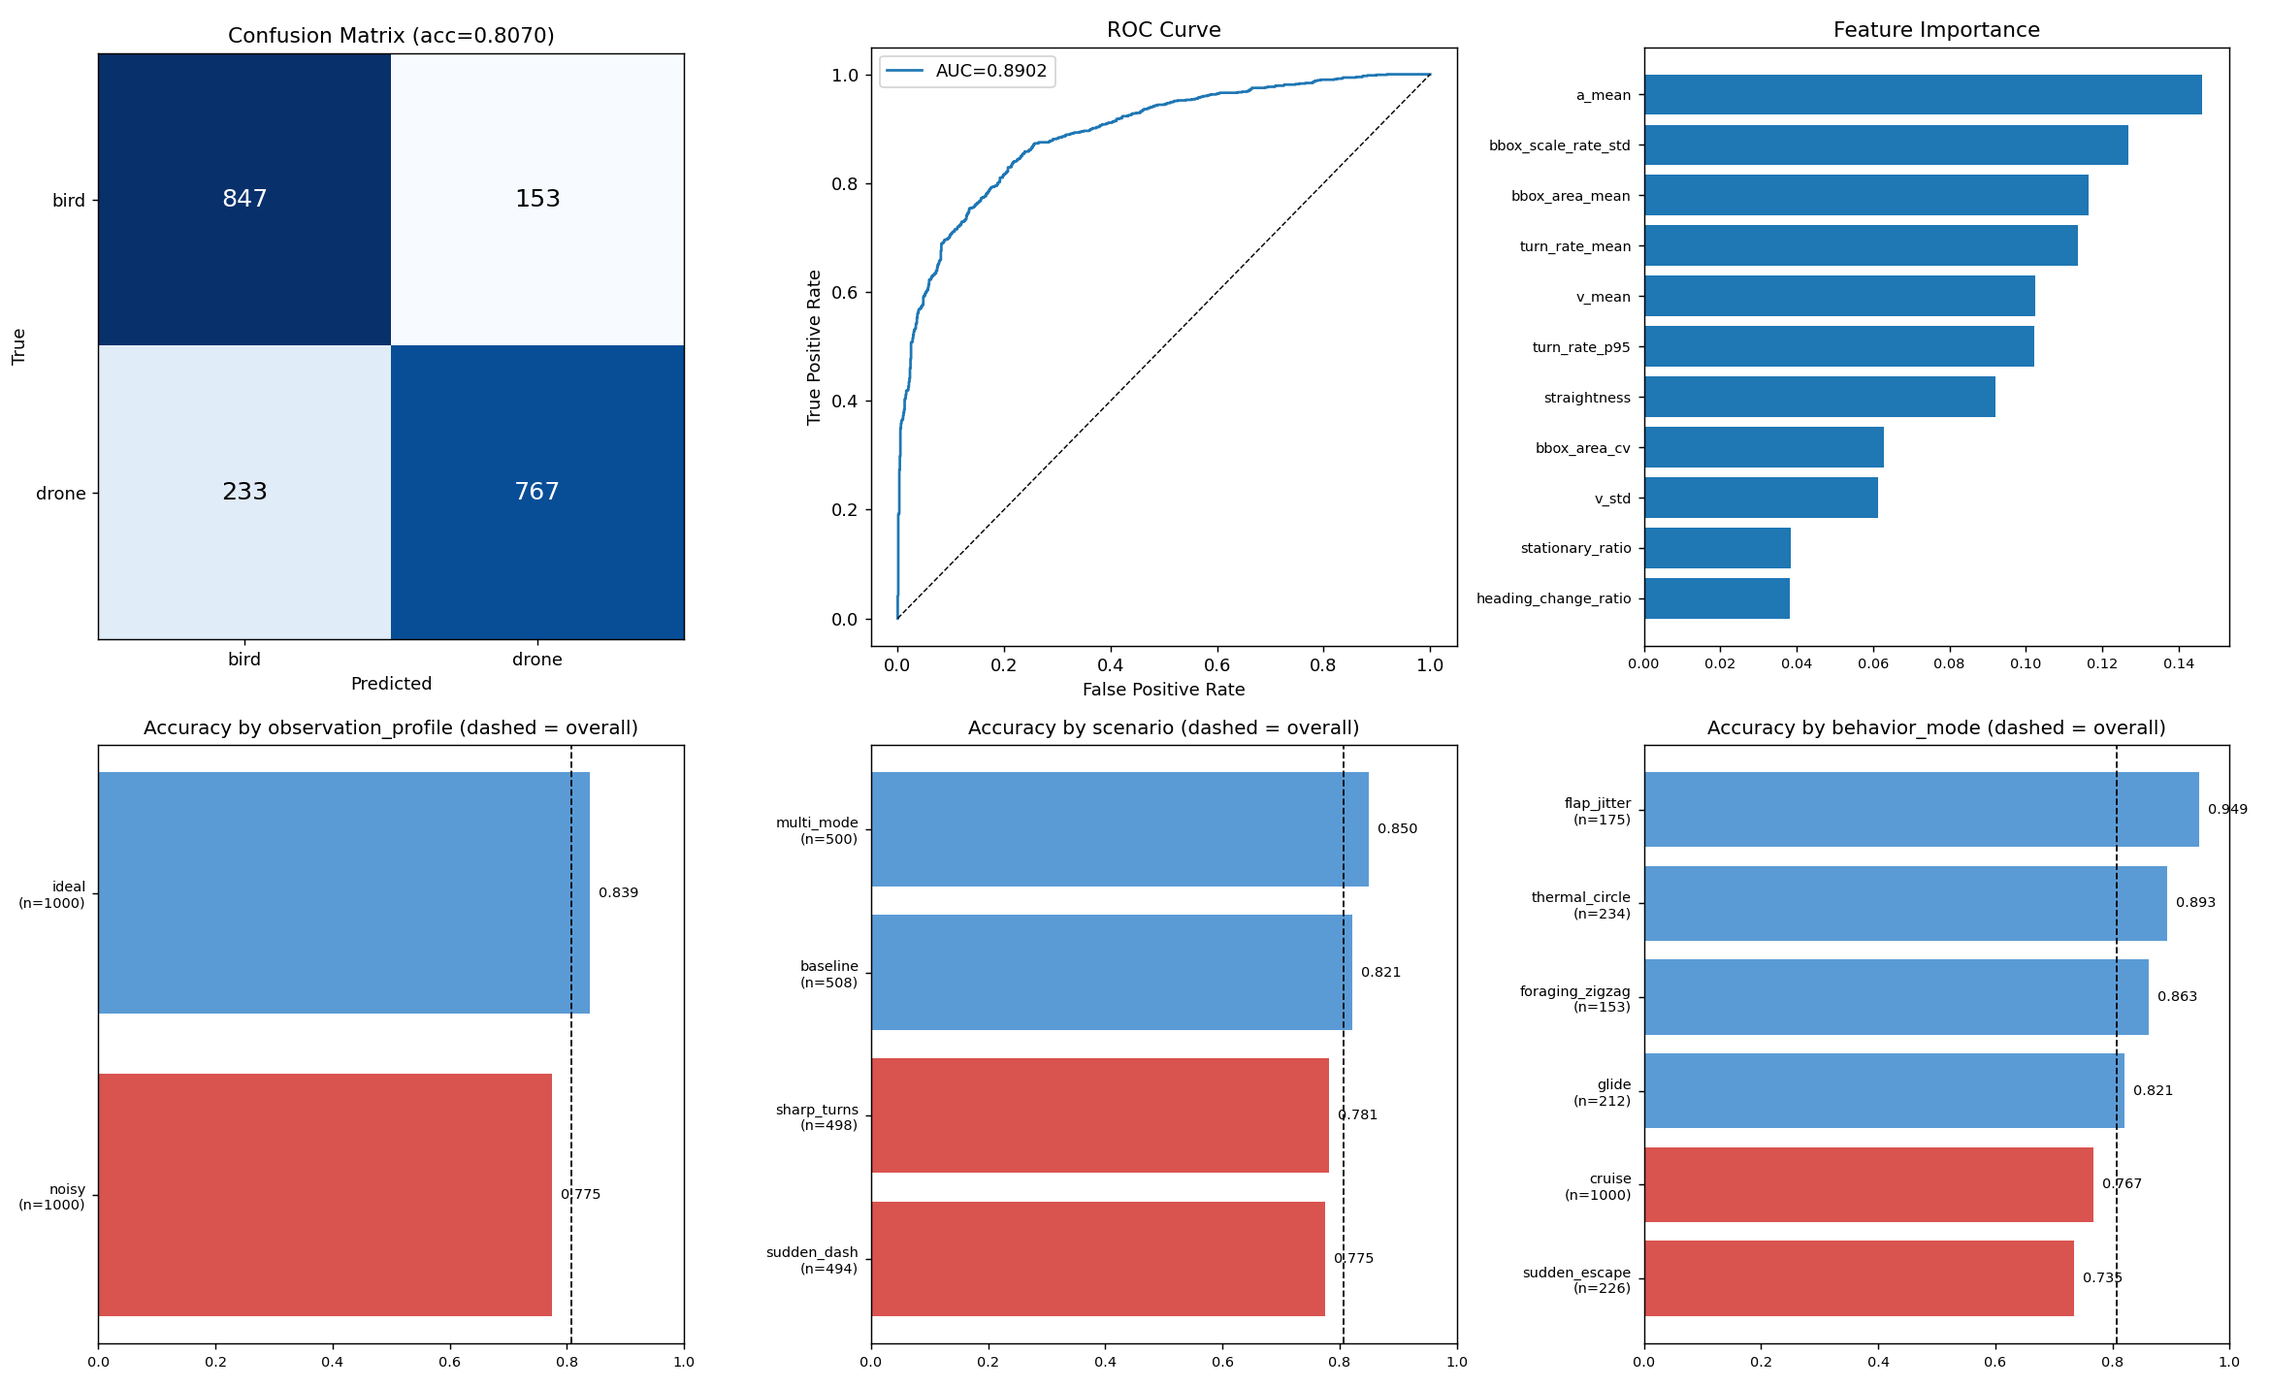
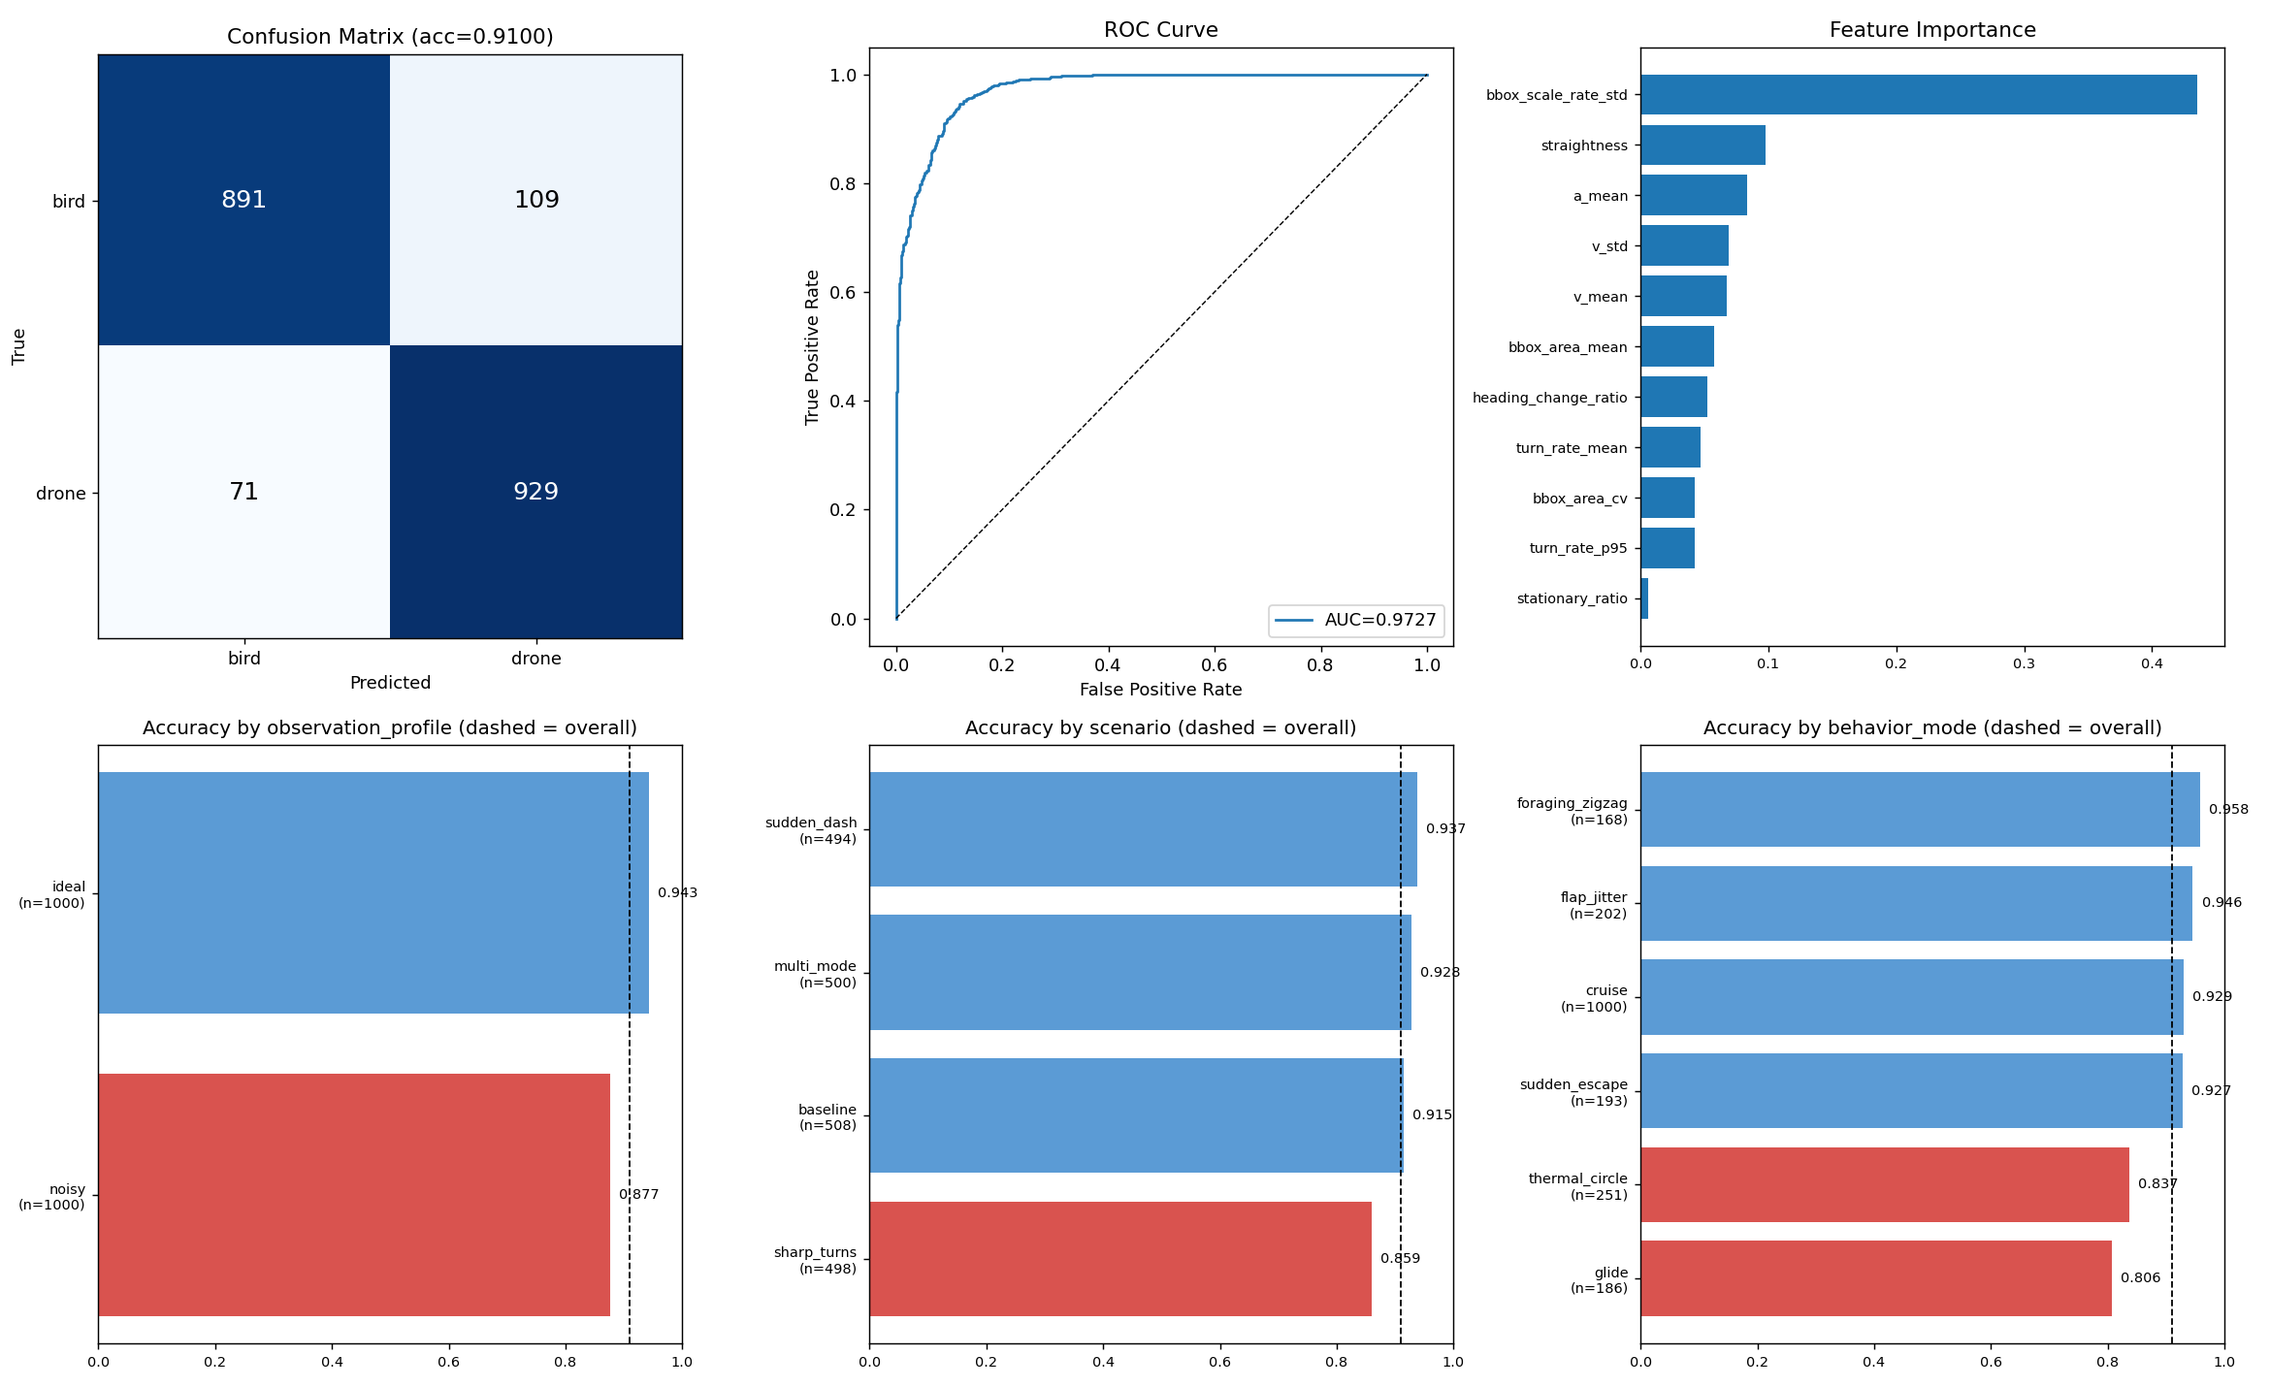
docs: RF 평가 확정본을 시뮬레이터 v4 데이터 기준으로 갱신
data/ 를 시뮬레이터 4.0.0 데이터셋으로 교체한 뒤(ac3fe87) 재평가한 결과를
docs/ 확정본으로 승격한다.

    accuracy   0.8070 -> 0.9100
    F1 macro   0.8067 -> 0.9100
    ROC-AUC    0.8902 -> 0.9727
    CV f1      0.8033 +-0.0121 -> 0.8985 +-0.0091

drone recall 이 0.7670 에서 0.9290 으로 올랐다. 미탐 비용이 큰 탐지 목적에서
가장 의미 있는 변화다. test 0.9100, validation 0.9000, CV 0.8985 세 추정치가
1.2%p 안에 모여 과적합 징후는 없다.

B파트가 validation 분할을 추가 제공해 데이터가 3분할(6000/2000/2000)이 됐다.
세 분할 모두 family_id / sample_id 교집합 0 이다.

## 성능이 오른 이유와 그 대가

시뮬레이터 v4 가 조류에 날갯짓 변조를 도입하면서 bbox_scale_rate_std 의 중요도가
0.1267 에서 0.4352 로 뛰었다. 이 피처 하나가 전체의 43.5% 를 차지한다.

향상의 대부분이 이 채널에서 나왔지만 동시에 최대 취약점이다. 검출기 지터를
주입해 측정한 민감도를 문서에 표로 남겼다.

    지터 0.05 -> accuracy 0.750, drone recall 0.557
    지터 0.10 -> accuracy 0.684, drone recall 0.408

모델이 "bbox 가 흔들리면 새"로 학습해, 잡음이 끼면 드론을 새로 오인한다.
대드론 시스템에서 가장 치명적인 방향의 오류다. SIMULATION_V4.md 도 이 bbox
관측 모델의 현실성이 검증되지 않았다고 명시하고 있다.

이 측정이 B파트가 bbox 비의존 특징 9종(#35)을 도입한 근거가 됐다. 따라서 이
문서의 지표는 피처 v3(11종) 기준이며, 피처 v4 재학습 후 갱신해야 한다.

## 병목이 바뀌었다

cruise(0.7670 -> 0.9290)와 sudden_escape(0.7345 -> 0.9275)가 해소된 대신
glide(0.8065), thermal_circle(0.8367), fixed_wing_drone(0.5280)이 새 병목이 됐다.
전부 날갯짓이 없는 활공 계열이라 두 클래스가 물리적으로 같은 방식으로 난다.
서브타입별 정확도와 함께 문서에 정리했다.

## 그 밖에

- 0.9100 은 시뮬레이션 홀드아웃 상한이며 실전 성능이 아니라는 점을 명시했다.
  실측 검증 도구(verify_real_track.py, comparison.py)는 준비돼 있으나 실영상이 없다.
- 하이퍼파라미터 탐색 표의 CV 수치는 v3 데이터에서 측정한 값이라 재탐색하지
  않았음을 단서로 달았다. 선정된 설정 자체는 v4 에서도 유지했다.

diff --git a/docs/rf_evaluation.md b/docs/rf_evaluation.md
@@ -46,7 +46,7 @@ python -m ai_server.services.evaluate --publish
 ![RF 분류기 평가 결과](images/rf_evaluation.png)
 
 윗줄은 전반 성능(혼동행렬 / ROC / 피처 중요도), 아랫줄은 세그먼트별 정확도 분해다.
-아랫줄에서 점선은 전체 정확도(0.8070)이고, **붉은 막대는 전체 평균을 밑도는 취약 구간**이다.
+아랫줄에서 점선은 전체 정확도(0.9100)이고, **붉은 막대는 전체 평균을 밑도는 취약 구간**이다.
 
 ## 데이터셋
 
@@ -55,17 +55,20 @@ python -m ai_server.services.evaluate --publish
 
 | 항목 | 값 |
 |---|---|
-| `simulator_version` | `3.0.0` |
+| `simulator_version` | `4.0.0` |
 | `feature_version` | `3.0.0` |
 | `feature_config_id` | `3b9a6c638c3f3519` |
 
-| 항목 | train | test |
-|---|---|---|
-| 샘플 수 | 8,000 | 2,000 |
-| 라벨 | bird 4,000 / drone 4,000 | bird 1,000 / drone 1,000 |
-| `family_id` 수 | 926 | 232 |
+| 항목 | train | validation | test |
+|---|---|---|---|
+| 샘플 수 | 6,000 | 2,000 | 2,000 |
+| 라벨 | bird 3,000 / drone 3,000 | bird 1,000 / drone 1,000 | bird 1,000 / drone 1,000 |
+| `family_id` 수 | 652 | — | 217 |
 
-**누수 검증** — `family_id` 교집합 0, `sample_id` 교집합 0, 동일 피처 행 0.
+B파트가 validation 분할을 추가로 제공해 3분할이 됐다. 아래 확정 지표는 test 기준이며,
+validation은 동일 모델로 0.9000이 나와 test(0.9100)와 1%p 안에서 일치한다.
+
+**누수 검증** — 세 분할 모두 `family_id` 교집합 0, `sample_id` 교집합 0, 동일 피처 행 0.
 패밀리 단위로 분리되어 있어 같은 궤적 계열이 train/test 양쪽에 걸치지 않는다.
 이 검사는 `evaluate.py`가 실행할 때마다 수행해 `metrics.json`에 기록한다.
 
@@ -81,6 +84,10 @@ python -m ai_server.services.evaluate --publish
 
 테스트셋 성능으로 설정을 고르면 테스트셋에 과적합되므로, **train 내부
 `GroupKFold(family_id)` 교차검증**으로 선정한 뒤 테스트셋은 최종 확인에만 사용했다.
+
+> **주의:** 아래 탐색 표의 CV 수치는 시뮬레이터 v3 데이터셋에서 측정한 값이다.
+> 데이터가 시뮬레이터 v4로 교체된 뒤 재탐색하지 않았으므로, 절대값이 아니라
+> 후보 간 상대 비교 근거로만 읽어야 한다. 선정된 설정 자체는 v4에서도 유지했다.
 
 | 설정 | CV f1_macro | 모델 크기 |
 |---|---|---|
@@ -110,52 +117,54 @@ python -m ai_server.services.evaluate --publish
 
 | 지표 | 값 |
 |---|---|
-| accuracy | **0.8070** |
-| F1 (macro) | **0.8067** |
-| ROC-AUC | 0.8902 |
-| PR-AUC | 0.8995 |
+| accuracy | **0.9100** |
+| F1 (macro) | **0.9100** |
+| ROC-AUC | 0.9727 |
+| PR-AUC | 0.9721 |
 
 | 클래스 | precision | recall | f1-score | support |
 |---|---|---|---|---|
-| bird | 0.7843 | 0.8470 | 0.8144 | 1,000 |
-| drone | 0.8337 | 0.7670 | 0.7990 | 1,000 |
+| bird | 0.9262 | 0.8910 | 0.9083 | 1,000 |
+| drone | 0.8950 | 0.9290 | 0.9117 | 1,000 |
 
-drone의 precision(0.8337)이 recall(0.7670)보다 높다. 드론이라 판단하면 대체로 맞지만
-실제 드론의 23%를 놓친다는 뜻으로, 탐지 목적상 recall 개선이 우선 과제다.
+drone recall이 0.7670에서 **0.9290**으로 올랐다. 시뮬레이터 v4가 조류에 날갯짓 변조를
+도입하면서 두 클래스가 분리된 결과다. 미탐 비용이 큰 탐지 목적에서 가장 의미 있는 변화다.
 
 ### Confusion Matrix
 
 |  | pred bird | pred drone |
 |---|---|---|
-| **true bird** | 847 | 153 |
-| **true drone** | 233 | 767 |
+| **true bird** | 891 | 109 |
+| **true drone** | 71 | 929 |
 
 ### 교차검증 (train, GroupKFold 5-fold)
 
-f1_macro **0.8033 ± 0.0121** — folds: 0.8132 / 0.7998 / 0.8149 / 0.7816 / 0.8071
+f1_macro **0.8985 ± 0.0091** — folds: 0.8958 / 0.9124 / 0.9042 / 0.8941 / 0.8858
 
-홀드아웃(0.8067)과 CV(0.8033)가 1 표준편차 내에서 일치해 과적합 징후는 없으며,
-train/test 분할이 편향되지 않았음을 뒷받침한다.
+test(0.9100), validation(0.9000), CV(0.8985) 세 추정치가 1.2%p 안에 모여 과적합 징후가 없다.
 
 ### Feature Importance
 
-| 피처 | 중요도 |
-|---|---|
-| `a_mean` | 0.1460 |
-| `bbox_scale_rate_std` | 0.1267 |
-| `bbox_area_mean` | 0.1164 |
-| `turn_rate_mean` | 0.1136 |
-| `v_mean` | 0.1024 |
-| `turn_rate_p95` | 0.1020 |
-| `straightness` | 0.0921 |
-| `bbox_area_cv` | 0.0628 |
-| `v_std` | 0.0613 |
-| `stationary_ratio` | 0.0385 |
-| `heading_change_ratio` | 0.0381 |
+| 피처 | 중요도 | 이전(시뮬레이터 v3) |
+|---|---|---|
+| `bbox_scale_rate_std` | **0.4352** | 0.1267 |
+| `straightness` | 0.0974 | 0.0921 |
+| `a_mean` | 0.0834 | 0.1460 |
+| `v_std` | 0.0692 | 0.0613 |
+| `v_mean` | 0.0676 | 0.1024 |
+| `bbox_area_mean` | 0.0576 | 0.1164 |
+| `heading_change_ratio` | 0.0519 | 0.0381 |
+| `turn_rate_mean` | 0.0467 | 0.1136 |
+| `bbox_area_cv` | 0.0425 | 0.0628 |
+| `turn_rate_p95` | 0.0423 | 0.1020 |
+| `stationary_ratio` | 0.0062 | 0.0385 |
 
-11개 피처가 0.038~0.146 범위에 고르게 분포해 특정 피처에 쏠리지 않는다.
-신규 도입된 bbox 계열(`bbox_scale_rate_std`, `bbox_area_mean`)이 2·3위를 차지해
-피처 확장의 기여가 확인된다.
+이전에는 0.038~0.146 범위에 고르게 분포했으나, **`bbox_scale_rate_std` 하나가 43.5%로
+쏠렸다.** 시뮬레이터 v4가 조류에 날갯짓 변조(pigeon 8.3Hz, falcon 5Hz, seagull 4Hz,
+고정익 드론 0Hz)를 도입하면서 이 피처가 날갯짓 탐지기 역할을 하게 됐다.
+
+성능 향상의 대부분이 이 채널에서 나왔지만, **동시에 가장 큰 취약점이기도 하다.**
+아래 「알려진 취약점」을 참고한다.
 
 ## 세그먼트별 정확도
 
@@ -163,51 +172,108 @@ train/test 분할이 편향되지 않았음을 뒷받침한다.
 
 | 구분 | n | accuracy |
 |---|---|---|
-| ideal | 1,000 | 0.8390 |
-| noisy | 1,000 | 0.7750 |
+| ideal | 1,000 | 0.9430 |
+| noisy | 1,000 | 0.8770 |
 
-노이즈 조건에서 **6.4%p 하락**한다. Sim2Real 관점에서 실측 환경 성능의 하한으로 볼 수 있다.
+노이즈 조건에서 **6.6%p 하락**한다. Sim2Real 관점에서 실측 환경 성능의 하한으로 볼 수 있다.
 
 ### scenario — 취약 시나리오
 
 | 구분 | n | accuracy |
 |---|---|---|
-| multi_mode | 500 | 0.8500 |
-| baseline | 508 | 0.8209 |
-| sharp_turns | 498 | 0.7811 |
-| sudden_dash | 494 | 0.7753 |
+| sudden_dash | 494 | 0.9372 |
+| multi_mode | 500 | 0.9280 |
+| baseline | 508 | 0.9154 |
+| sharp_turns | 498 | 0.8594 |
 
-급격한 방향 전환(`sharp_turns`)과 급가속(`sudden_dash`)이 상대적으로 취약하다.
+급격한 방향 전환(`sharp_turns`)만 상대적으로 취약하게 남았다. `sudden_dash`는 이전
+0.7753에서 0.9372로 올라 더 이상 병목이 아니다.
 
 ### behavior_mode
 
 | 구분 | n | accuracy |
 |---|---|---|
-| flap_jitter | 175 | 0.9486 |
-| thermal_circle | 234 | 0.8932 |
-| foraging_zigzag | 153 | 0.8627 |
-| glide | 212 | 0.8208 |
-| cruise | 1,000 | 0.7670 |
-| sudden_escape | 226 | 0.7345 |
+| foraging_zigzag | 168 | 0.9583 |
+| flap_jitter | 202 | 0.9455 |
+| cruise | 1,000 | 0.9290 |
+| sudden_escape | 193 | 0.9275 |
+| thermal_circle | 251 | 0.8367 |
+| glide | 186 | 0.8065 |
 
-새 고유의 움직임이 뚜렷한 `flap_jitter`(날갯짓)와 `thermal_circle`(상승기류 선회)은
-0.89 이상으로 잘 구분된다. 반면 `sudden_escape`(급회피)는 0.7345로 가장 낮은데,
-새의 급기동이 드론의 급기동과 유사해 분리가 어려운 것으로 보인다.
-`cruise`는 전체 테스트셋의 절반을 차지하면서 0.7670에 그쳐, **등속 직진 구간의
-bird/drone 구분 난이도가 전체 성능의 주된 제약**이다.
+병목이 완전히 뒤바뀌었다. 이전 최대 약점이던 `cruise`(0.7670 → 0.9290)와
+`sudden_escape`(0.7345 → 0.9275)가 해소된 반면, **`glide`(0.8065)와
+`thermal_circle`(0.8367)이 새 병목**이 됐다.
+
+두 모드는 `SIMULATION_V4.md` 기준 **추진력 0인 활공**이라 날갯짓이 없다. 고정익 드론도
+날갯짓이 없어, 두 클래스가 물리적으로 같은 방식으로 난다. 실제로 `bbox_scale_rate_std`
+분포를 보면 활공 조류(평균 0.16)가 드론(0.11)과 거의 겹치고, 날갯짓하는 조류(1.09)와는
+크게 다르다.
+
+드론 서브타입별로 보면 같은 구조가 드러난다.
+
+| 서브타입 | accuracy |
+|---|---|
+| racing_quad | 0.9600 |
+| hover_quad | 0.8480 |
+| consumer_quad | 0.7200 |
+| **fixed_wing_drone** | **0.5280** |
+
+`fixed_wing_drone`은 사실상 동전 던지기 수준이다. **활공 조류 ↔ 고정익 드론**이
+남은 오류의 집중 지점이다.
 
 ### training_length_group
 
 | 구분 | n | accuracy |
 |---|---|---|
-| short | 193 | 0.8187 |
-| standard | 1,807 | 0.8058 |
+| short | 168 | 0.9226 |
+| standard | 1,832 | 0.9088 |
 
 트랙 길이에 따른 유의미한 성능 차이는 관찰되지 않는다.
 
+## 알려진 취약점 — 지표 해석 시 반드시 함께 읽을 것
+
+### 단일 피처 의존과 관측 잡음 취약성
+
+`bbox_scale_rate_std`가 중요도의 43.5%를 차지한다. 이 값은 bbox 면적 변화율의 표준편차,
+즉 날갯짓이 bbox를 흔드는 정도다.
+
+검출기·추적기가 만드는 bbox 지터를 이 피처에 주입해 민감도를 측정했다.
+
+| 추가 지터 | accuracy | drone recall | bird recall |
+|---|---|---|---|
+| 0.00 (현재) | 0.910 | 0.929 | 0.891 |
+| 0.05 | 0.750 | **0.557** | 0.944 |
+| 0.10 | 0.684 | **0.408** | 0.960 |
+| 0.20 | 0.629 | 0.282 | 0.976 |
+
+**작은 지터에도 무너지고, 무너지는 방향이 나쁘다.** 모델이 "bbox가 흔들리면 새"로
+학습했기 때문에 지터가 끼면 드론을 새로 오인한다. 대드론 시스템에서 가장 치명적인
+방향의 오류다. bird recall이 오히려 올라가는 것이 그 증거다.
+
+`research/SIMULATION_V4.md`도 이 채널의 현실성이 검증되지 않았다고 명시한다.
+
+> 현재 bbox는 여전히 투영 실루엣 근사와 A-like ROI 관측 모델이다. 날개 자세·가림·motion
+> blur를 렌더링하고 A 추적기에 실제 통과시킨 결과가 아니다. 따라서 bbox 기반 특징의
+> 현실성 문제는 이 개선으로 해결되지 않는다.
+
+이 측정이 B파트가 bbox 비의존 특징 9종(#35)을 도입한 근거가 됐다. **이 문서의 지표는
+피처 v3(11종) 기준이며, 피처 v4 재학습 후 갱신해야 한다.**
+
+### 이 수치는 실전 성능이 아니다
+
+0.9100은 **시뮬레이션 홀드아웃 상한**이다. 실측 영상 검증은 아직 수행하지 않았다.
+문헌상 합성 데이터로 학습한 모델이 조류가 섞인 실데이터에서 큰 폭으로 떨어진 사례가 있다
+(순수 합성 학습 Faster-RCNN: MAV-Vid AP 0.970 → Drone-vs-Bird AP 0.498).
+
+검증 도구는 준비돼 있다 — `research/verify_real_track.py`(실 궤적 반입),
+`research/comparison.py`(도메인 분류기 + Wasserstein 거리). 실영상만 확보되면 실행 가능하다.
+
 ## 후속 과제
 
-- `cruise`(0.7670) / `sudden_escape`(0.7345) 구간 개선 — 현재 전체 정확도의 병목
-- drone recall 0.7670 개선 — 탐지 목적상 미탐(false negative) 비용이 크다
-- noisy 조건 6.4%p 하락 완화
-- 실측 트랙 기반 검증 — 현재 지표는 전부 시뮬레이션 데이터 기준이다
+- **활공 조류 ↔ 고정익 드론 분리** — `glide` 0.8065, `thermal_circle` 0.8367,
+  `fixed_wing_drone` 0.5280. 날갯짓 신호가 없어 현재 피처로는 한계가 명확하다.
+  선회 기하, 바람 응답(대기속도 vs 대지속도), 활공비 안정성 등 다른 축이 필요하다
+- **피처 v4(9종) 재학습** — bbox 의존 제거 후 지표 재산출. #31에서 진행
+- `sharp_turns` 0.8594 개선
+- noisy 조건 6.6%p 하락 완화
+- **실측 트랙 기반 검증** — 현재 지표는 전부 시뮬레이션 데이터 기준이다
